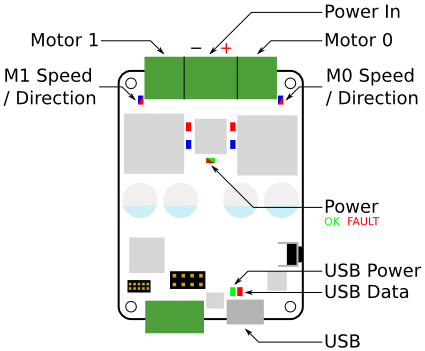
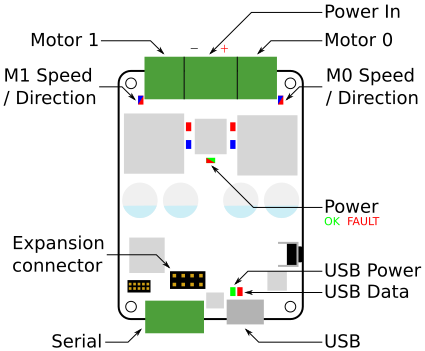
Add documentation about usage of the battery balance lead and about the unused ports on the motor board
This should hopefully reduce the chance of a team plugging the former
into the latter, as happened a few days ago.

v2: fix arrow having been accidentally deleted from motor board diagram

diff --git a/kit/batteries/index.md b/kit/batteries/index.md
@@ -71,6 +71,11 @@ battery to your robot, so that it does not move or fall off while the robot
 moves. You should also build a compartment for the battery to be placed in, so
 that accidental collisions do not damage the battery.
 
+<div class="info">
+The smaller lead is only used for voltage measurement when charging and should
+be left disconnected when the battery is connected to the robot kit.
+</div>
+
 ### Flat Batteries
 
 When the battery has been almost completely discharged, the Power Board will

diff --git a/kit/motor_board.md b/kit/motor_board.md
@@ -19,6 +19,11 @@ Board Diagram
 
 ![motor board diagram]({{ site.baseurl }}/images/content/kit/mcv4b_board_diagram.png "The Motor Board")
 
+<div class="info">
+The serial and expansion connectors labelled in the above diagram are not currently used by any part of our kit and we don't typically provide support for their use.
+We strongly advise that you do not connect anything to these ports unless you understand their purpose, since incorrect use can damage the kit.
+</div>
+
 Indicators
 ----------
 
